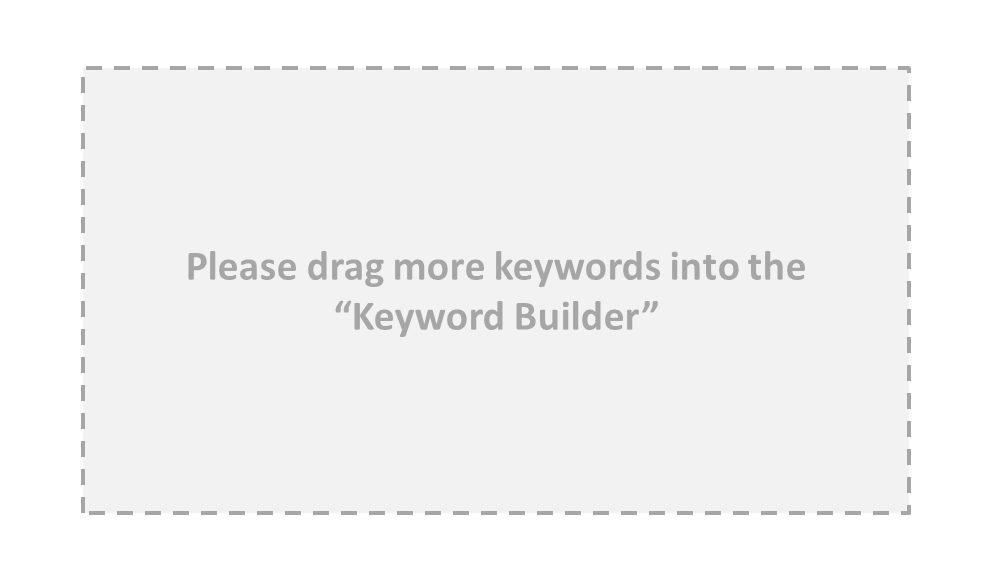
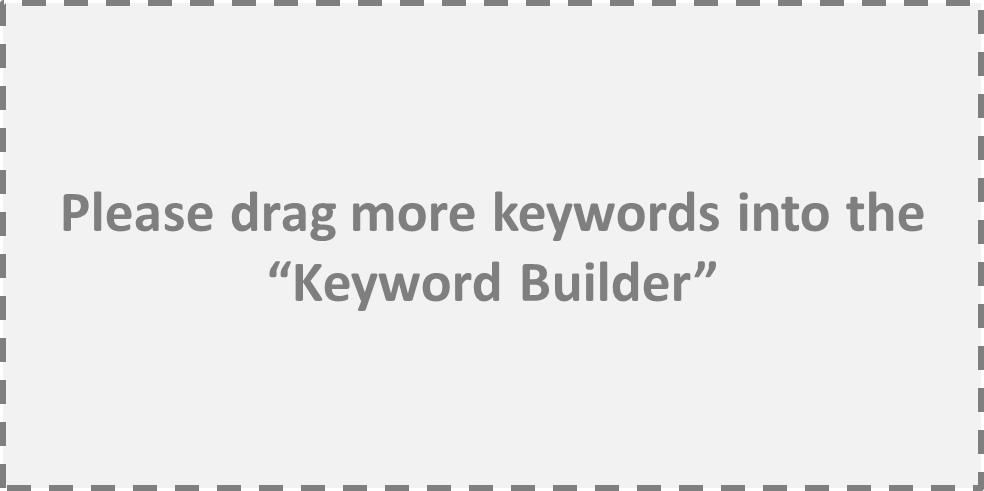
Target dragging

diff --git a/index.html b/index.html
@@ -128,6 +128,19 @@ body {
 .data-set{
    margin-bottom: 10px;
 }
+.builder-tgt{
+    background-image: url('lib/img/target.png');
+    background-repeat: no-repeat;
+    background-position: center;
+    background-size: 35%;
+}
+.builder-tgt-bl{
+    background-image: url('lib/img/target_blank.png');
+    background-repeat: no-repeat;
+    background-position: center;
+    background-size: 35%;
+}
+
    </style>
 </head>
 
@@ -200,7 +213,7 @@ body {
                         <ul dnd-list="models.builderItems"
                            dnd-horizontal-list="true"
                            dnd-drop="dropBuilder(event, index, item, external, type, 'containerType')"
-                           >
+                           ng-class="models.builder_tgt">
                            <li ng-repeat="item in models.builderItems"
                                dnd-draggable="item"
                                dnd-effect-allowed="move"
@@ -210,10 +223,8 @@ body {
                                class="openhandCursor"
                                >{{item.label}}
                            </li>
-                           <li class="dndPlaceholder">
-                              Drop keyword here
-                           </li>
                         </ul>
+                        &nbsp;
                      </div>
                   </div>
                </div>
@@ -372,7 +383,6 @@ body {
          $scope.dropBuilder = function(event, index, item, external, type, allowedType) {
             //$scope.logListEvent('Builder: dropped at', event, index, external, type);
 
-            $scope.draggingAKeyword = false;
             var needToCheckWords = true;
             if (item.parent == BW){
                // find the current one and kill it
@@ -453,15 +463,13 @@ body {
             }
          };
 
-         $scope.draggingAKeyword = false;
-
          $scope.eventDragStart = function(){
             console.log("eventDragStart");
-            $scope.draggingAKeyword = true;
+            $scope.models.builder_tgt = "builder-tgt";
          };
          $scope.eventDragEnd = function(){
             console.log("eventDragEnd");
-            $scope.draggingAKeyword = false;
+            $scope.models.builder_tgt = "builder-tgt-bl";
          };
 
          $scope.builderKwDragStart = function(){
@@ -471,11 +479,12 @@ body {
             console.log("builderKwDragEnd");
          }
          $scope.models = {
-            selected     : null,
-            lists        : $scope.loadData(),
-            builderItems : [],
-            dataSetIdx   : (parseInt($location.search()['dataSet'], 10) || 0),
-            images       : $scope.loadImages(),
+            selected       : null,
+            lists          : $scope.loadData(),
+            builderItems   : [],
+            dataSetIdx     : (parseInt($location.search()['dataSet'], 10) || 0),
+            images         : $scope.loadImages(),
+            builder_tgt    : "builder-tgt-bl",
          };
 
          $scope.menuOptions = [
